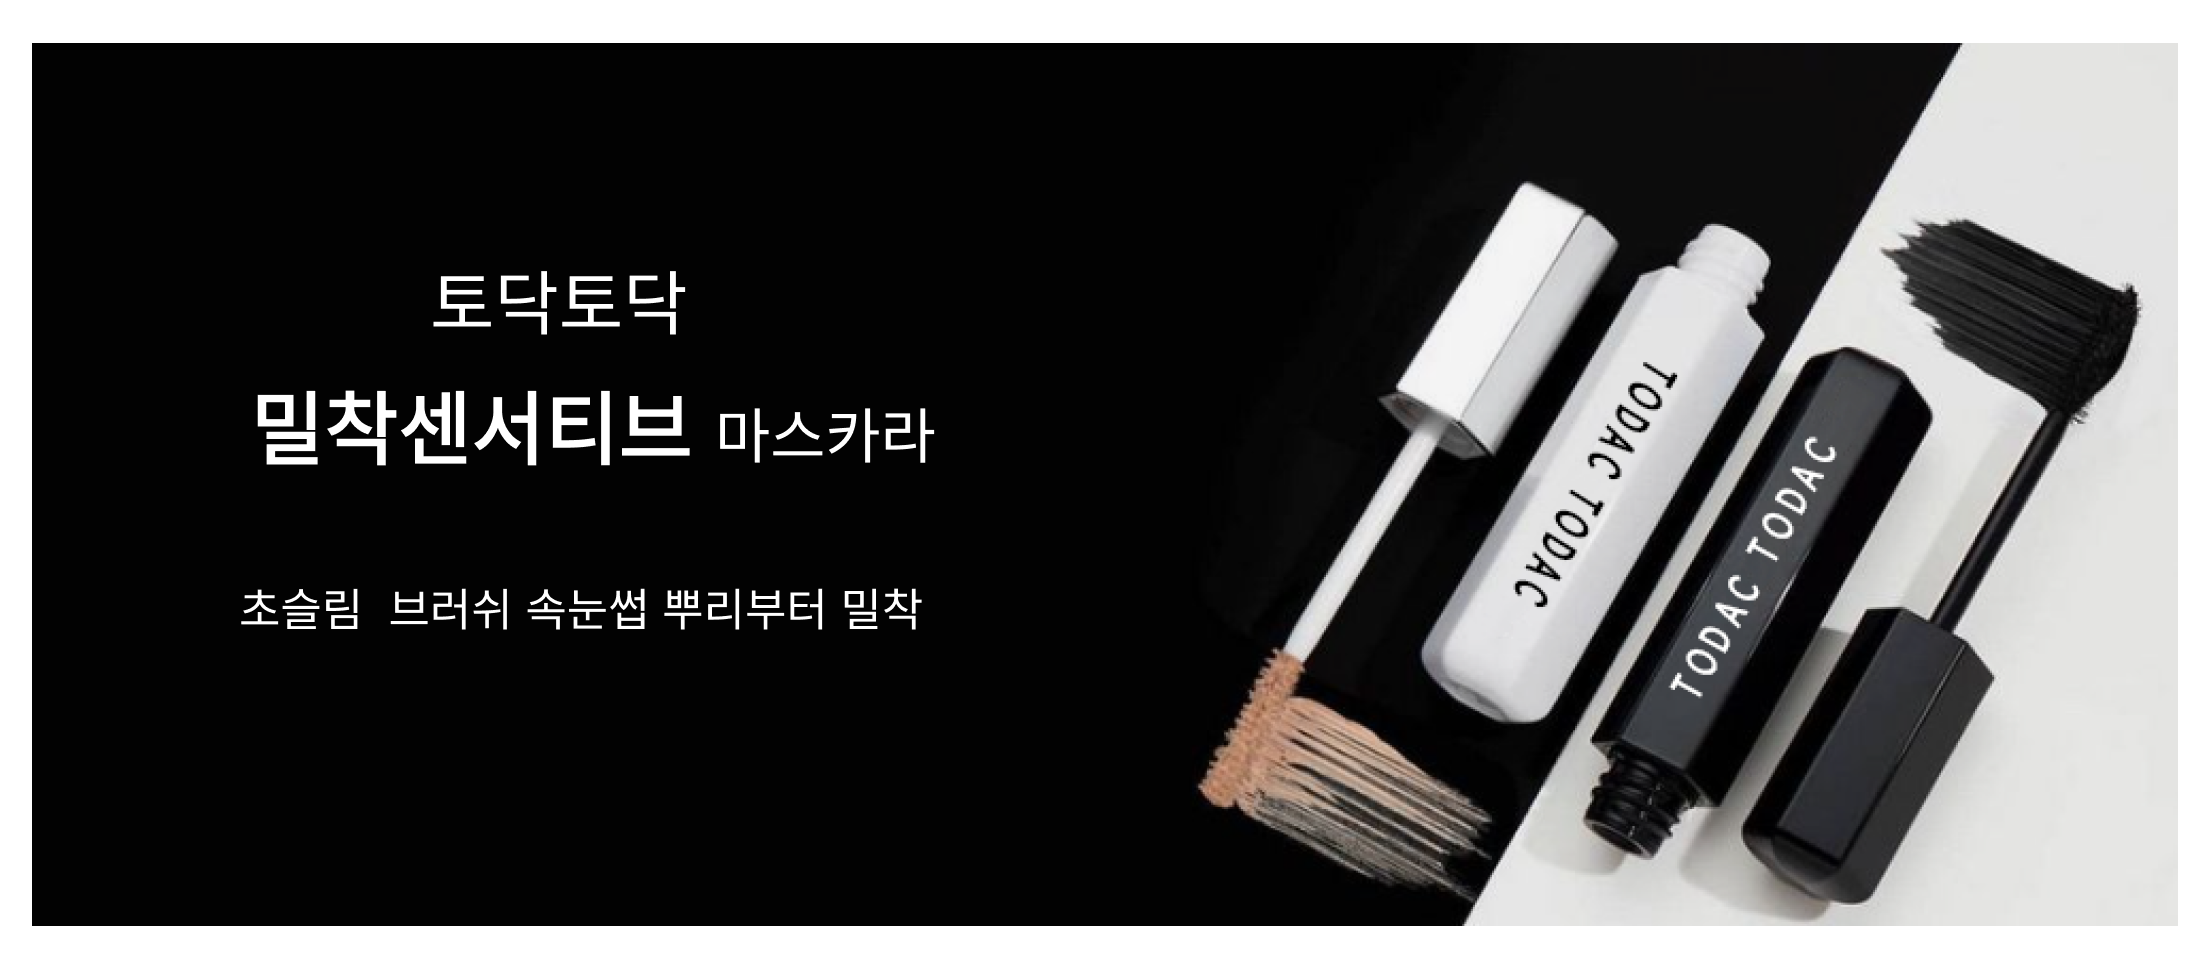
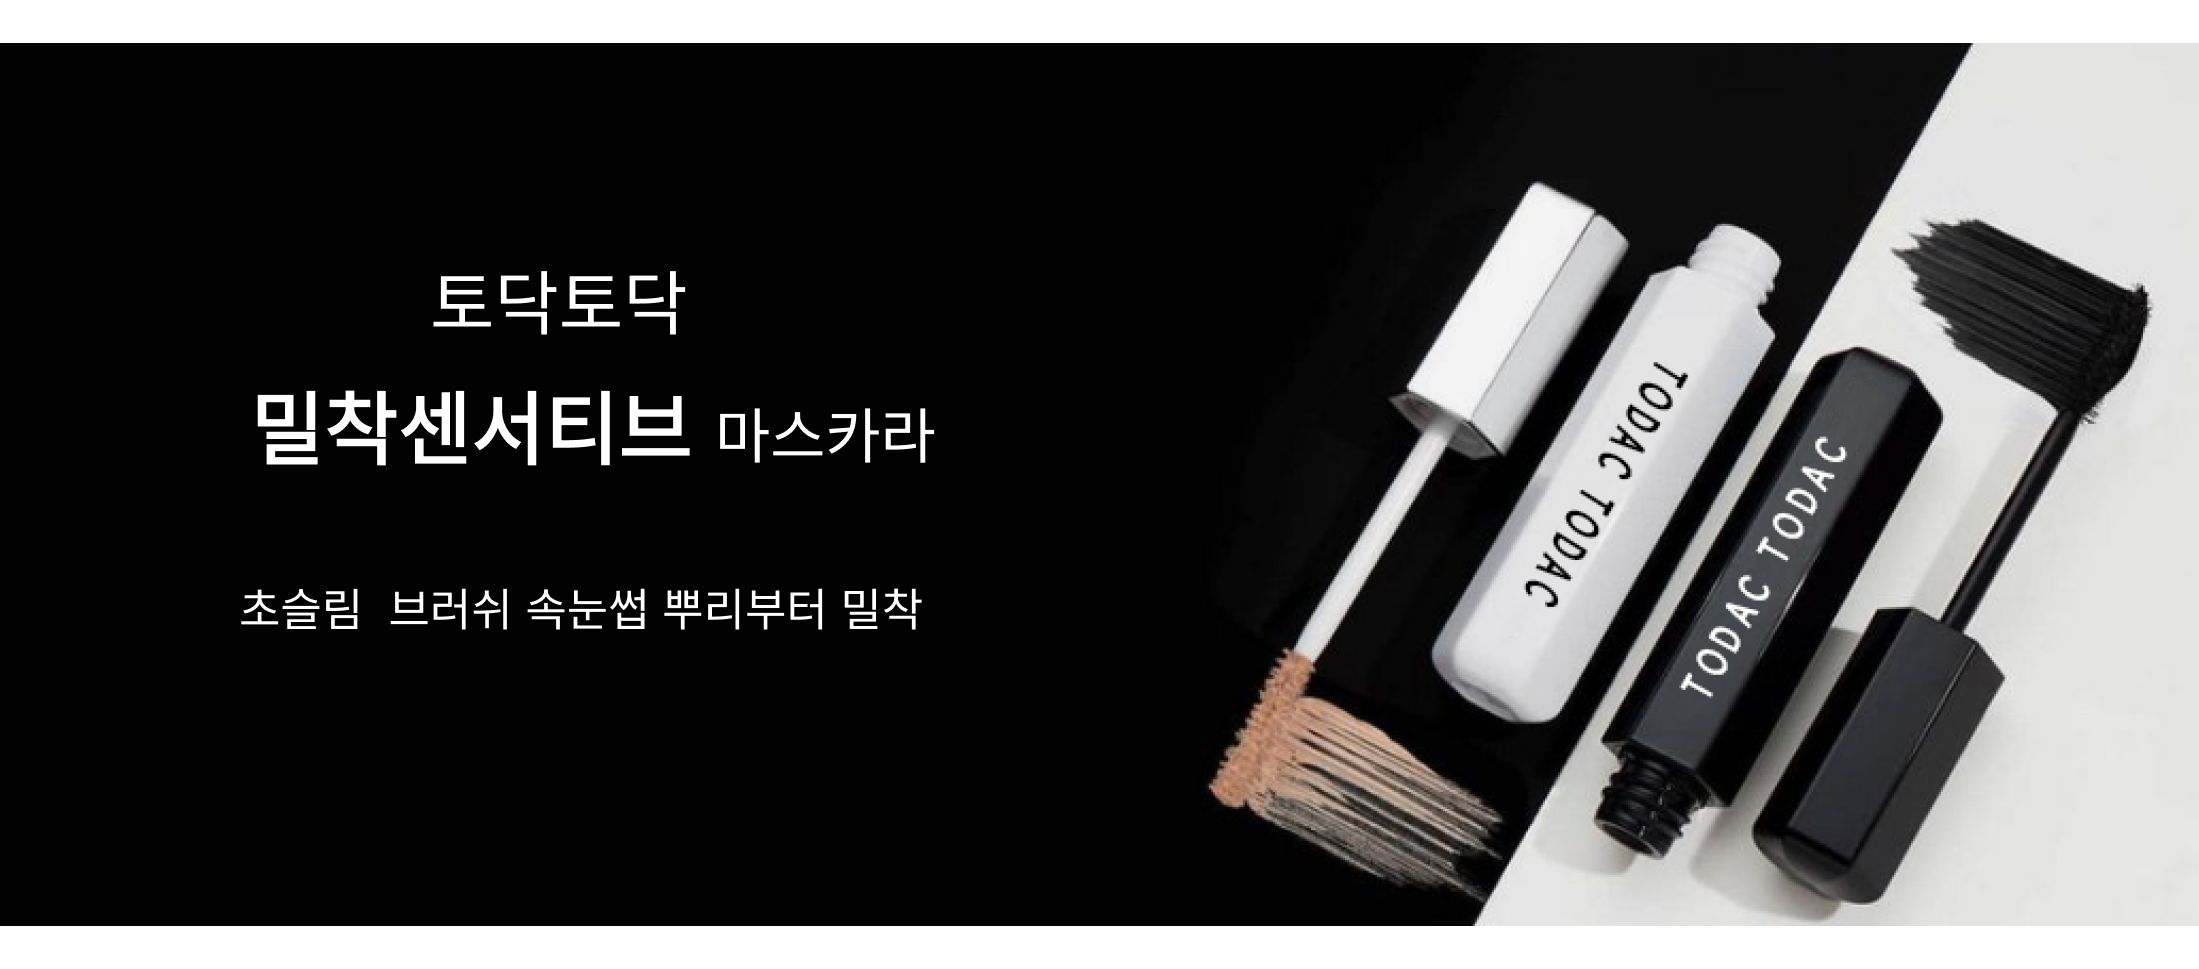
스와이퍼 수정본

diff --git a/css/main.css b/css/main.css
@@ -19,8 +19,6 @@ body {
 }
 
 /* 전체레이아웃 */
-/* 모달창 */
-
 /* 상단 */
 .warp {
   width: 100%;
@@ -58,7 +56,7 @@ body {
   display: flex;
   align-items: center;
   width: 20%;
-  background-color: #FF4092;
+  background-color: #ff4092;
 }
 .logo {
   display: block;
@@ -66,26 +64,24 @@ body {
   background-size: cover;
   width: 150px;
   height: 150px;
-  
 }
 #logo {
-font-size: 40px;
+  font-size: 40px;
 }
-   /* 모바일 메뉴 */
-   .mb{
-    width: 15%;
-    display: flex;
-  }
-  .mb ul {
-    display: flex;
-    align-items: center;
-    
-  }
-  .mb ul li a{
+/* 모바일 메뉴 */
+.mb {
+  width: 15%;
+  display: flex;
+}
+.mb ul {
+  display: flex;
+  align-items: center;
+}
+.mb ul li a {
   padding: 0 20px;
   font-size: 20px;
-   color: #000;
-    }
+  color: #000;
+}
 /* 메인메뉴 */
 .menu {
   width: 80%;
@@ -162,43 +158,52 @@ font-size: 40px;
 
 /* 메인스와이퍼 */
 
-.swiper-slide {
+.title1 {
   width: 100%;
-  height: 500px;
-  background: url("../images/banner/banner1.png") no-repeat;
-  background-position: center;
-  background-size: 100% 100%;
+  height: 400px;
+  background: url("../images/banner/banner1.jpg") no-repeat;
+  background-position: contain;
+  /* display: block;
+  margin-left: auto;
+  margin-right: auto; */
 }
-.swiper-slide2 {
+.title2 {
   width: 100%;
   height: 500px;
   background: url("../images/banner/banner2.png") no-repeat;
   background-position: center;
-  background-size: 100% 100%;
+  background-size: contain;
+  /* display: block;
+  margin-left: auto;
+  margin-right: auto; */
 }
-.swiper-slide3 {
+
+.title3 {
   width: 100%;
   height: 500px;
   background: url("../images/banner/banner3.png") no-repeat;
   background-position: center;
-  background-size: 100% 100%;
+  background-size: contain;
+  /* display: block;
+  margin-left: auto;
+  margin-right: auto; */
 }
 
 /* 검색바 */
-.serch{
+.serch {
   width: 100%;
   height: 300px;
   display: block;
 }
-.inner{
+.inner {
   width: 50%;
   height: 300px;
   margin: 0 auto;
   padding-top: 50px;
 }
-input{
+input {
   width: 900px;
-  height: 50px; 
+  height: 50px;
   border: none;
   background-color: #fff;
   border-radius: 30px;
@@ -207,39 +212,36 @@ input{
   box-shadow: 0px 0px 5px 5px rgba(0, 0, 0, 0.1);
   text-align: center;
 }
-.inner a{
-font-size: 25px;
-float: right;
-line-height: 2;
-color: #FF4092;
-transition: transform 0.3s ease-in-out;
+.inner a {
+  font-size: 25px;
+  float: right;
+  line-height: 2;
+  color: #ff4092;
+  transition: transform 0.3s ease-in-out;
 }
-.inner a:hover{
+.inner a:hover {
   transform: translateY(5px);
 }
-.keyword{
+.keyword {
   padding-top: 20px;
   display: flex;
   justify-content: center;
 }
-.keyword li button{
+.keyword li button {
   border-radius: 30px;
-  background-color: #FCE0EC;
+  background-color: #fce0ec;
   border: none;
   margin: 20px;
   float: left;
   color: #333;
   font-weight: 800;
-
-  
 }
-.keyword li button a{
+.keyword li button a {
   font-size: 16px;
   text-align: center;
   color: #333;
   padding: 10px;
 }
-
 
 /* 푸터 */
 footer {
@@ -304,4 +306,54 @@ footer address {
   color: #fff;
   background-color: #000;
 }
-/* 모달창 */
+/* 안내창 */
+.modal-wrap {
+  position: fixed;
+  top: 0;
+  left: 0;
+  width: 100%;
+  height: 100%;
+  z-index: 99999;
+  display: flex;
+  justify-content: center;
+  align-items: center;
+  width: 500px;
+  height: 400px;
+}
+.modal-main {
+  display: flex;
+  flex-direction: column;
+  justify-content: center;
+  text-align: center;
+  /* line-height: 60px; */
+  /* width: 500px;
+  height: 400px; */
+  border-radius: 30px;
+  position: relative;
+  background: #e2e1e1;
+}
+.modal-logo {
+  background: url("../images/totologo/to.png") no-repeat center #dbf4c7;
+  position: absolute;
+  top: 0%;
+  left: 10%;
+  transform: translateX(-50%);
+  border-radius: 50%;
+  border: 6px solid #fff;
+  display: block;
+  width: 150px;
+  height: 150px;
+}
+.modal-close {
+  position: absolute;
+  bottom: -20px;
+  left: 0;
+  width: 100%;
+}
+
+.modal-main .img {
+  width: 100%;
+  height: 100%;
+  border-radius: 50px;
+  object-fit: cover;
+}

diff --git a/index.html b/index.html
@@ -90,7 +90,21 @@
     <title>10대 20대를 겨냥한 자극없는 성분의 브랜드 토닥토닥</title>
   </head>
   <body>
-    <!-- 모달창 -->
+    <!-- 안내창 -->
+    <div class="modal-wrap">
+      <div class="modal-main1">
+        <span class="modal-logo"></span>
+        <p class="modal-nonotic">
+           <strong>토닥토닥 온라인 몰 EVENT</strong><br />
+          <P>카카오 네이버 포인트로 3만원 이상 구매시</P><br />
+          <strong>5,000원 할인 및 적립</strong><br />
+        </p>
+        <div class="modal-close" >
+          확인했습니다.
+          <i>( Click 하여 닫기 )</i>
+      </div>
+    </div>
+  </div>
     <!-- 전체 레이아웃 -->
     <div class="warp">
       <!-- 상단 -->
@@ -169,20 +183,20 @@
               <div class="slider">
                 <!-- Swiper -->
                 <div class="swiper todok">
-                  <div class="swiper-wrapper">
+                  <div class="swiper-wrapper"> 
                     <div class="swiper-slide">
                       <div class="title1">
-                        <img src="images/freetime/freetime01.png" alt="메인이미지2" />
+                        <img src="images/banner/banner1.jpg" alt="" />
                       </div>
                     </div>
                     <div class="swiper-slide">
                       <div class="title2">
-                        <img src="images/freetime/freetime01.png" alt="메인이미지2" />
+                        <img src="images/banner/banner2.png" alt="" />
                       </div>
                     </div>
                     <div class="swiper-slide">
-                      <div class="title">
-                        <img src="images/freetime/freetime01.png" alt="메인이미지2" />
+                      <div class="title3">
+                        <img src="images/banner/banner3.png" alt="" />
                       </div>
                     </div>
                   </div>

diff --git a/js/main.js b/js/main.js
@@ -7,8 +7,17 @@ $(".mainmenu > li").mouseleave(function () {
     $(this).find(".submenu").stop().slideUp();
 });
 
-//모달창 
-
+//안내창 
+const body = document.querySelector("body");
+const modal = document.querySelector(".modal-wrap");
+const modalClose = document.querySelector(".modal-close");
+function controlScroll(isOpen) {
+  if (isOpen) {
+    body.style.overflow = "hidden";
+  } else {
+    body.style.overflow = "auto";
+  }
+}
 
     // 메인스와이퍼
     var swiper = new Swiper(".todok", {
